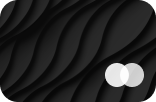
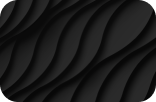
Revert "feat: redesign accounts cards component"
This reverts commit 2c2adfcbf328fe463a4909c4a3352d8a11246f84.

Changed region(s): [[0.6667, 0.6176, 0.9231, 0.8529]]

diff --git a/app/components/products/HoldersAccountItem.tsx b/app/components/products/HoldersAccountItem.tsx
@@ -68,17 +68,17 @@ export const HoldersAccountItem = memo((props: {
     const isHoldersReady = useIsConnectAppReady(url, owner.toString({ testOnly: isTestnet }));
     const name = getAccountName(account.accountIndex, account.name);
     const ledgerContext = useLedgerTransport();
-
+    
     const priceAmount = useMemo(() => {
         try {
             const cryptoCurrency = account.cryptoCurrency;
-
+    
             if (!account || !account.cryptoCurrency || !account.balance) return 0n;
-
+    
             if (cryptoCurrency.ticker === 'TON') {
                 return BigInt(account.balance);
             }
-
+    
             const amount = toBnWithDecimals(account.balance, cryptoCurrency.decimals) / toNano(price?.price?.usd || 1n);
             return toBnWithDecimals(amount, cryptoCurrency.decimals);
         } catch (error) {
@@ -124,9 +124,7 @@ export const HoldersAccountItem = memo((props: {
         navigation.navigateHolders({ type: HoldersAppParamsType.Account, id: account.id }, isTestnet, isLedger);
     }, [account, needsEnrollment, isTestnet, onOpen, isLedger, ledgerContext]);
 
-    const subtitle = t('products.holders.accounts.network', {
-        networkName: account.network.replace('-mainnet', '').replace('-testnet', '').toUpperCase()
-    });
+    const subtitle = t('products.holders.accounts.basicAccount');
 
     const renderRightAction = (!!rightActionIcon && !!rightAction)
         ? () => {
@@ -252,8 +250,8 @@ export const HoldersAccountItem = memo((props: {
                             {!(hideCardsIfEmpty && account.cards.length === 0) ? (
                                 <View
                                     style={{
-                                        height: 66, marginTop: 20, gap: 8, flexDirection: 'row',
-                                        marginLeft: 20
+                                        height: 46, marginTop: 10, gap: 8, flexDirection: 'row',
+                                        marginLeft: 78
                                     }}
                                 >
                                     {account.cards.slice(0, 5).map((card, index) => {
@@ -262,15 +260,20 @@ export const HoldersAccountItem = memo((props: {
                                                 key={`card-item-${index}`}
                                                 card={card as GeneralHoldersCard}
                                                 theme={theme}
-                                                style={{ height: 46, width: 72, borderRadius: 12 }}
-                                                coverImageStyle={{ height: 46, width: 72, borderRadius: 12 }}
-                                                cardNumberStyle={{ fontSize: 10, left: 8, bottom: 8 }}
                                             />
                                         )
                                     })}
-                                    <View style={{ height: 46, width: 72, borderRadius: 12, backgroundColor: theme.divider, justifyContent: 'center', alignItems: 'center' }}>
-                                        <Image style={{ height: 24, width: 24, tintColor: theme.textSecondary }} source={require('@assets/ic-plus.png')} />
-                                    </View>
+                                    {account.cards.length > 4 && (
+                                        <LinearGradient
+                                            style={{ height: 30, width: 20 + 8 + 46, position: 'absolute', right: 0, top: 0 }}
+                                            colors={[
+                                                theme.style === 'light' ? 'rgba(255, 255, 255, 0)' : 'rgba(0, 0, 0, 0)',
+                                                (itemStyle as any)?.backgroundColor || theme.surfaceOnBg
+                                            ]}
+                                            start={{ x: 0, y: 0 }}
+                                            end={{ x: 0.5, y: 0 }}
+                                        />
+                                    )}
                                 </View>
                             ) : (
                                 <View style={{ height: 20 }} />

diff --git a/app/components/products/HoldersAccountCard.tsx b/app/components/products/HoldersAccountCard.tsx
@@ -5,7 +5,6 @@ import { ThemeType } from "../../engine/state/theme";
 import { PerfView } from "../basic/PerfView";
 import { PerfText } from "../basic/PerfText";
 import { useLockAppWithAuthState } from "../../engine/hooks/settings";
-import { ImageStyle, StyleProp, TextStyle, ViewStyle } from "react-native";
 
 const cardImages = {
     'dark': {
@@ -22,13 +21,7 @@ const cardImages = {
     }
 }
 
-export const HoldersAccountCard = memo(({ card, theme, style, coverImageStyle, cardNumberStyle }: { 
-    card: GeneralHoldersCard, 
-    theme: ThemeType, 
-    style?: StyleProp<ViewStyle>, 
-    coverImageStyle?: StyleProp<ImageStyle>,
-    cardNumberStyle?: StyleProp<TextStyle> 
-}) => {
+export const HoldersAccountCard = memo(({ card, theme }: { card: GeneralHoldersCard, theme: ThemeType }) => {
     const [lockAppWithAuth] = useLockAppWithAuthState();
     // TODO: remove this when we have the correct personalization codes
     let imageType: 'holders' | 'classic' | 'whales' | 'black-pro' = 'black-pro';
@@ -38,10 +31,10 @@ export const HoldersAccountCard = memo(({ card, theme, style, coverImageStyle, c
     }
 
     return (
-        <PerfView style={[{ width: 46, height: 30, borderRadius: 6 }, style]}>
-            <Image source={cardImages[theme.style === 'dark' ? 'dark' : 'light'][imageType]} style={[{ width: 46, height: 30 }, coverImageStyle]} />
+        <PerfView style={{ width: 46, height: 30, borderRadius: 6 }}>
+            <Image source={cardImages[theme.style === 'dark' ? 'dark' : 'light'][imageType]} style={{ width: 46, height: 30 }} />
             {!!card.lastFourDigits && (
-                <PerfText style={[{ position: 'absolute', left: 4, bottom: 3.5, fontSize: 7.5, fontWeight: '500', color: theme.textUnchangeable }, cardNumberStyle]}>
+                <PerfText style={{ position: 'absolute', left: 4, bottom: 3.5, fontSize: 7.5, fontWeight: '500', color: theme.textUnchangeable }}>
                     {lockAppWithAuth ? card.lastFourDigits : '****'}
                 </PerfText>
             )}

diff --git a/app/components/products/HoldersAccounts.tsx b/app/components/products/HoldersAccounts.tsx
@@ -157,11 +157,11 @@ export const HoldersAccounts = memo(({
             title={t('products.holders.accounts.title')}
             // re-map to add height correction for accounts with no cards
             items={accs.map((item) => {
-                return { ...item, height: item.cards.length > 0 ? 152 : 86 }
+                return { ...item, height: item.cards.length > 0 ? 122 : 86 }
             })}
             renderItem={renderItem}
             renderFace={renderFace}
-            itemHeight={152}
+            itemHeight={122}
             theme={theme}
             limitConfig={{
                 maxItems: 4,

diff --git a/app/i18n/i18n_uk.ts b/app/i18n/i18n_uk.ts
@@ -563,8 +563,7 @@ const schema: PrepareSchema<LocalizationSchema, "" | "_plural"> = {
                 primaryName: 'Основний рахунок',
                 paymentName: 'Платіжний рахунок {{accountIndex}}',
                 topUp: 'Поповнити рахунок',
-                addNew: 'Додати рахунок',
-                network: 'Мережа {{networkName}}',
+                addNew: 'Додати рахунок'
             },
             "pageTitles": {
                 "general": "Tonhub Карти",

diff --git a/app/i18n/i18n_fr.ts b/app/i18n/i18n_fr.ts
@@ -563,8 +563,7 @@ const schema: PrepareSchema<LocalizationSchema, "" | "_plural"> = {
                 "primaryName": "Compte principal",
                 "paymentName": "Compte de paiement {{accountIndex}}",
                 "topUp": "Recharger le compte",
-                "addNew": "Ajouter un compte",
-                "network": "Réseau {{networkName}}",
+                "addNew": "Ajouter un compte"
             },
             "pageTitles": {
                 "general": "Cartes Tonhub",

diff --git a/app/i18n/i18n_pt.ts b/app/i18n/i18n_pt.ts
@@ -563,8 +563,7 @@ const schema: PrepareSchema<LocalizationSchema, "" | "_plural"> = {
                 "primaryName": "Conta principal",
                 "paymentName": "Conta de pagamento {{accountIndex}}",
                 "topUp": "Recarregar conta",
-                "addNew": "Adicionar conta",
-                "network": "Rede {{networkName}}",
+                "addNew": "Adicionar conta"
             },
             "pageTitles": {
                 "general": "Cartões Tonhub",

diff --git a/app/i18n/i18n_it.ts b/app/i18n/i18n_it.ts
@@ -563,8 +563,7 @@ const schema: PrepareSchema<LocalizationSchema, "" | "_plural"> = {
                 "primaryName": "Conto principale",
                 "paymentName": "Conto di pagamento {{accountIndex}}",
                 "topUp": "Ricarica conto",
-                "addNew": "Aggiungi account",
-                "network": "Rete {{networkName}}",
+                "addNew": "Aggiungi account"
             },
             "pageTitles": {
                 "general": "Carte Tonhub",

diff --git a/app/i18n/i18n_de.ts b/app/i18n/i18n_de.ts
@@ -563,8 +563,7 @@ const schema: PrepareSchema<LocalizationSchema, "" | "_plural"> = {
                 "primaryName": "Hauptkonto",
                 "paymentName": "Zahlungskonto {{accountIndex}}",
                 "topUp": "Konto aufladen",
-                "addNew": "Konto hinzufügen",
-                "network": "{{networkName}}-Netzwerk",
+                "addNew": "Konto hinzufügen"
             },
             "pageTitles": {
                 "general": "Tonhub-Karten",

diff --git a/app/i18n/i18n_en.ts b/app/i18n/i18n_en.ts
@@ -563,8 +563,7 @@ const schema: PrepareSchema<LocalizationSchema, "" | "_plural"> = {
                 "primaryName": "Main account",
                 "paymentName": "Spending account {{accountIndex}}",
                 "topUp": "Top up account",
-                "addNew": "Add new account",
-                "network": "{{networkName}} network",
+                "addNew": "Add new account"
             },
             "pageTitles": {
                 "general": "Tonhub Cards",

diff --git a/app/i18n/i18n_es.ts b/app/i18n/i18n_es.ts
@@ -563,8 +563,7 @@ const schema: PrepareSchema<LocalizationSchema, "" | "_plural"> = {
                 "primaryName": "Cuenta principal",
                 "paymentName": "Cuenta de pago {{accountIndex}}",
                 "topUp": "Recargar cuenta",
-                "addNew": "Agregar cuenta",
-                "network": "Red {{networkName}}",
+                "addNew": "Agregar cuenta"
             },
             "pageTitles": {
                 "general": "Tarjetas Tonhub",

diff --git a/app/i18n/i18n_ru.ts b/app/i18n/i18n_ru.ts
@@ -564,7 +564,6 @@ const schema: PrepareSchema<LocalizationSchema, '_0' | '_1' | '_2'> = {
                 "paymentName": "Платежный счет {{accountIndex}}",
                 "topUp": "Пополнить счёт",
                 "addNew": "Добавить счёт",
-                "network": "Сеть {{networkName}}",
             },
             "pageTitles": {
                 "general": "Tonhub Cards",

diff --git a/app/i18n/schema.ts b/app/i18n/schema.ts
@@ -565,8 +565,7 @@ export type LocalizationSchema = {
                 primaryName: string,
                 paymentName: string,
                 topUp: string,
-                addNew: string,
-                network: string,
+                addNew: string
             },
             pageTitles: {
                 general: string,
